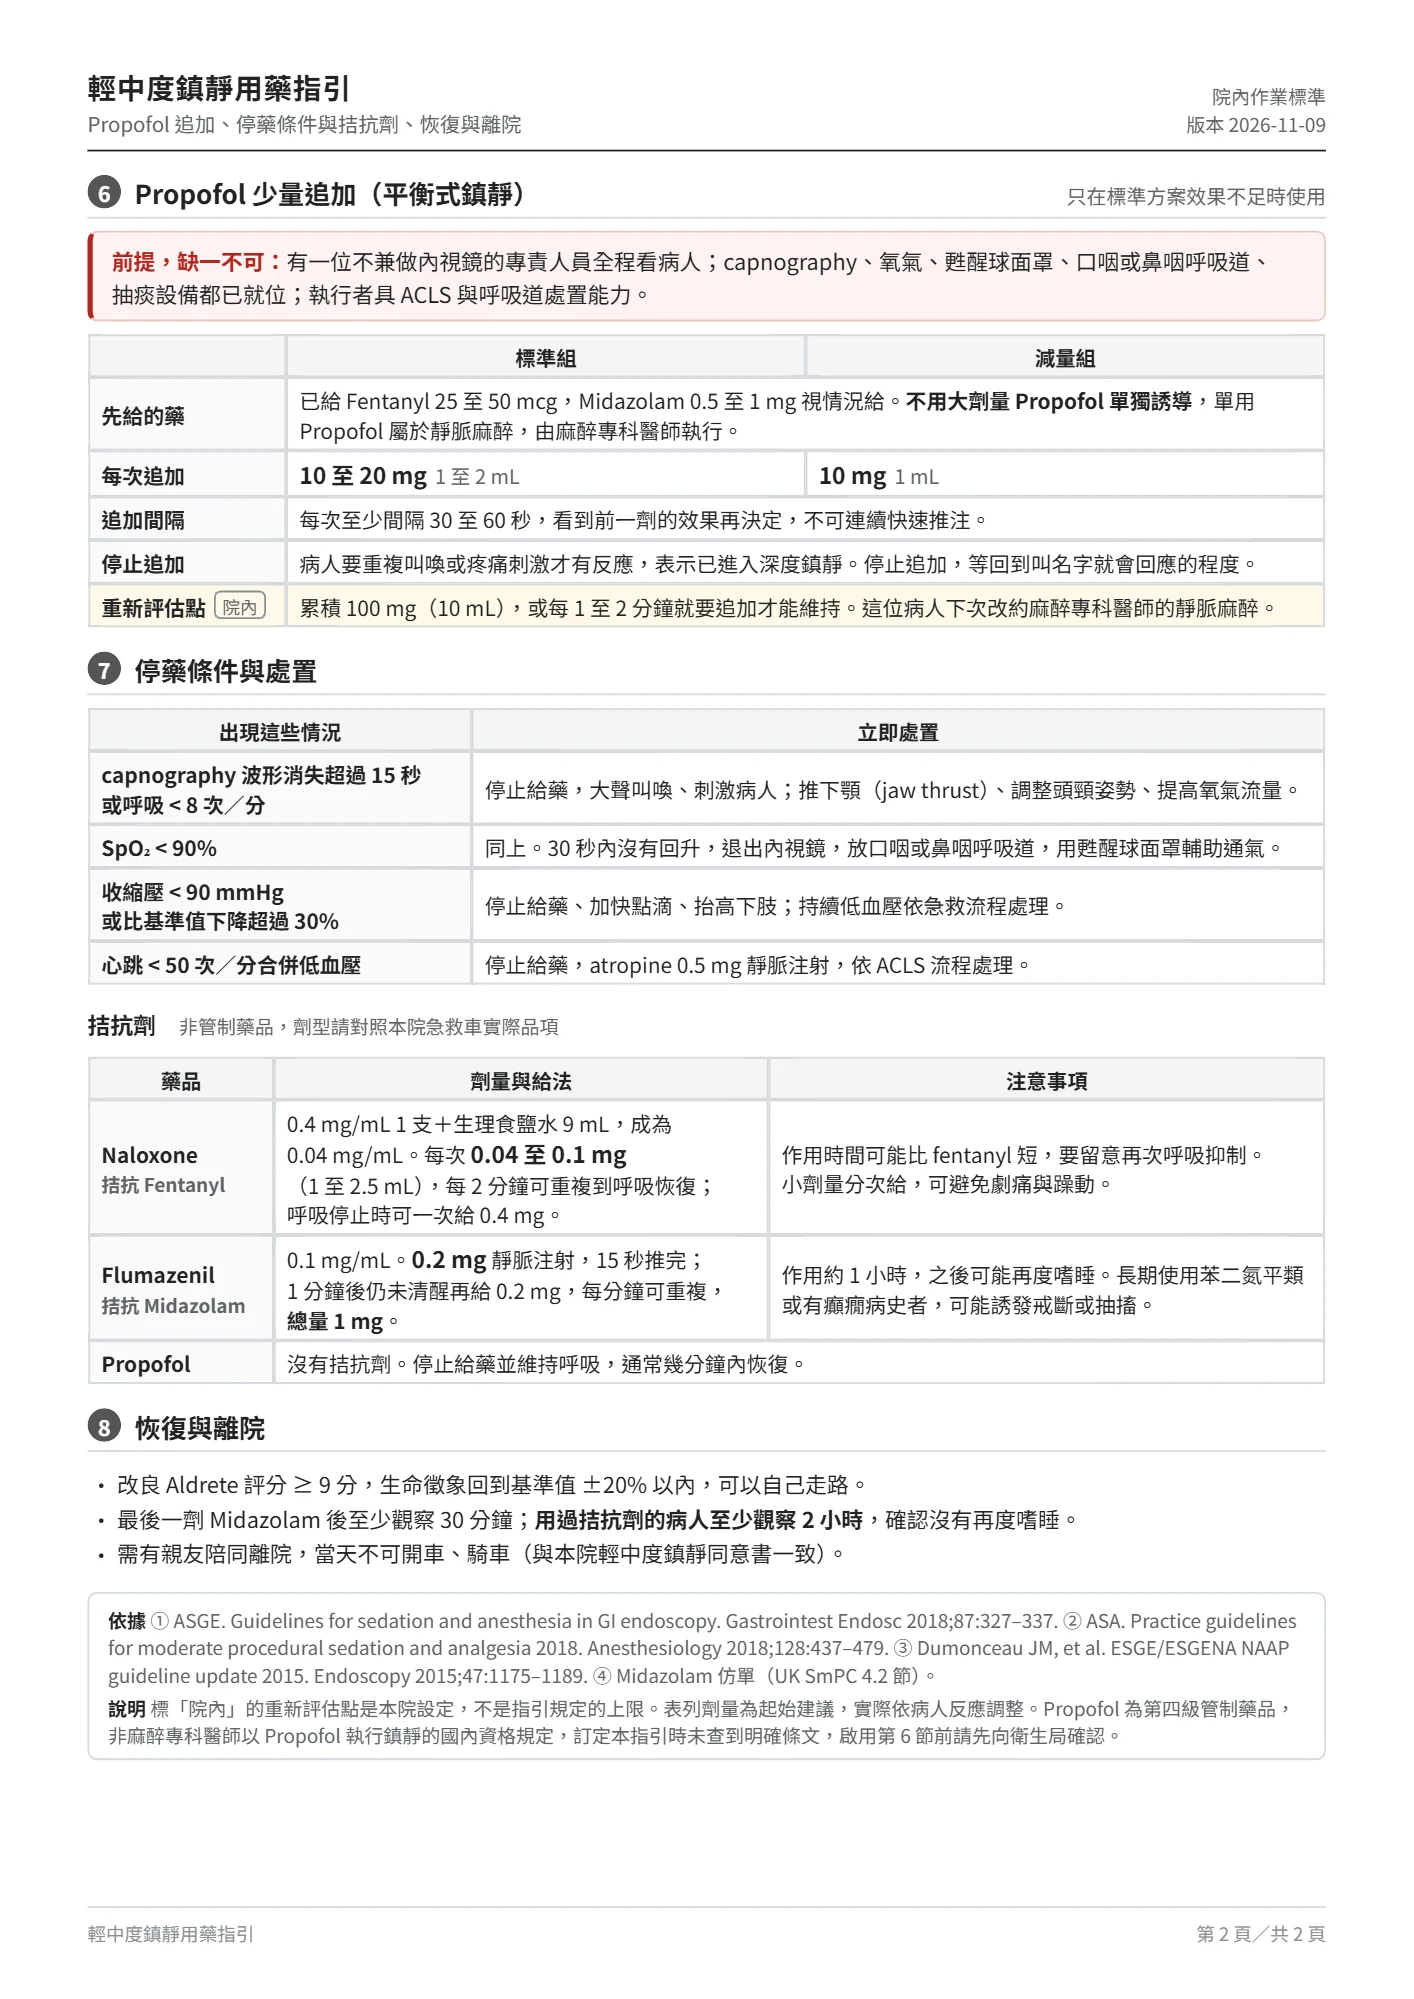
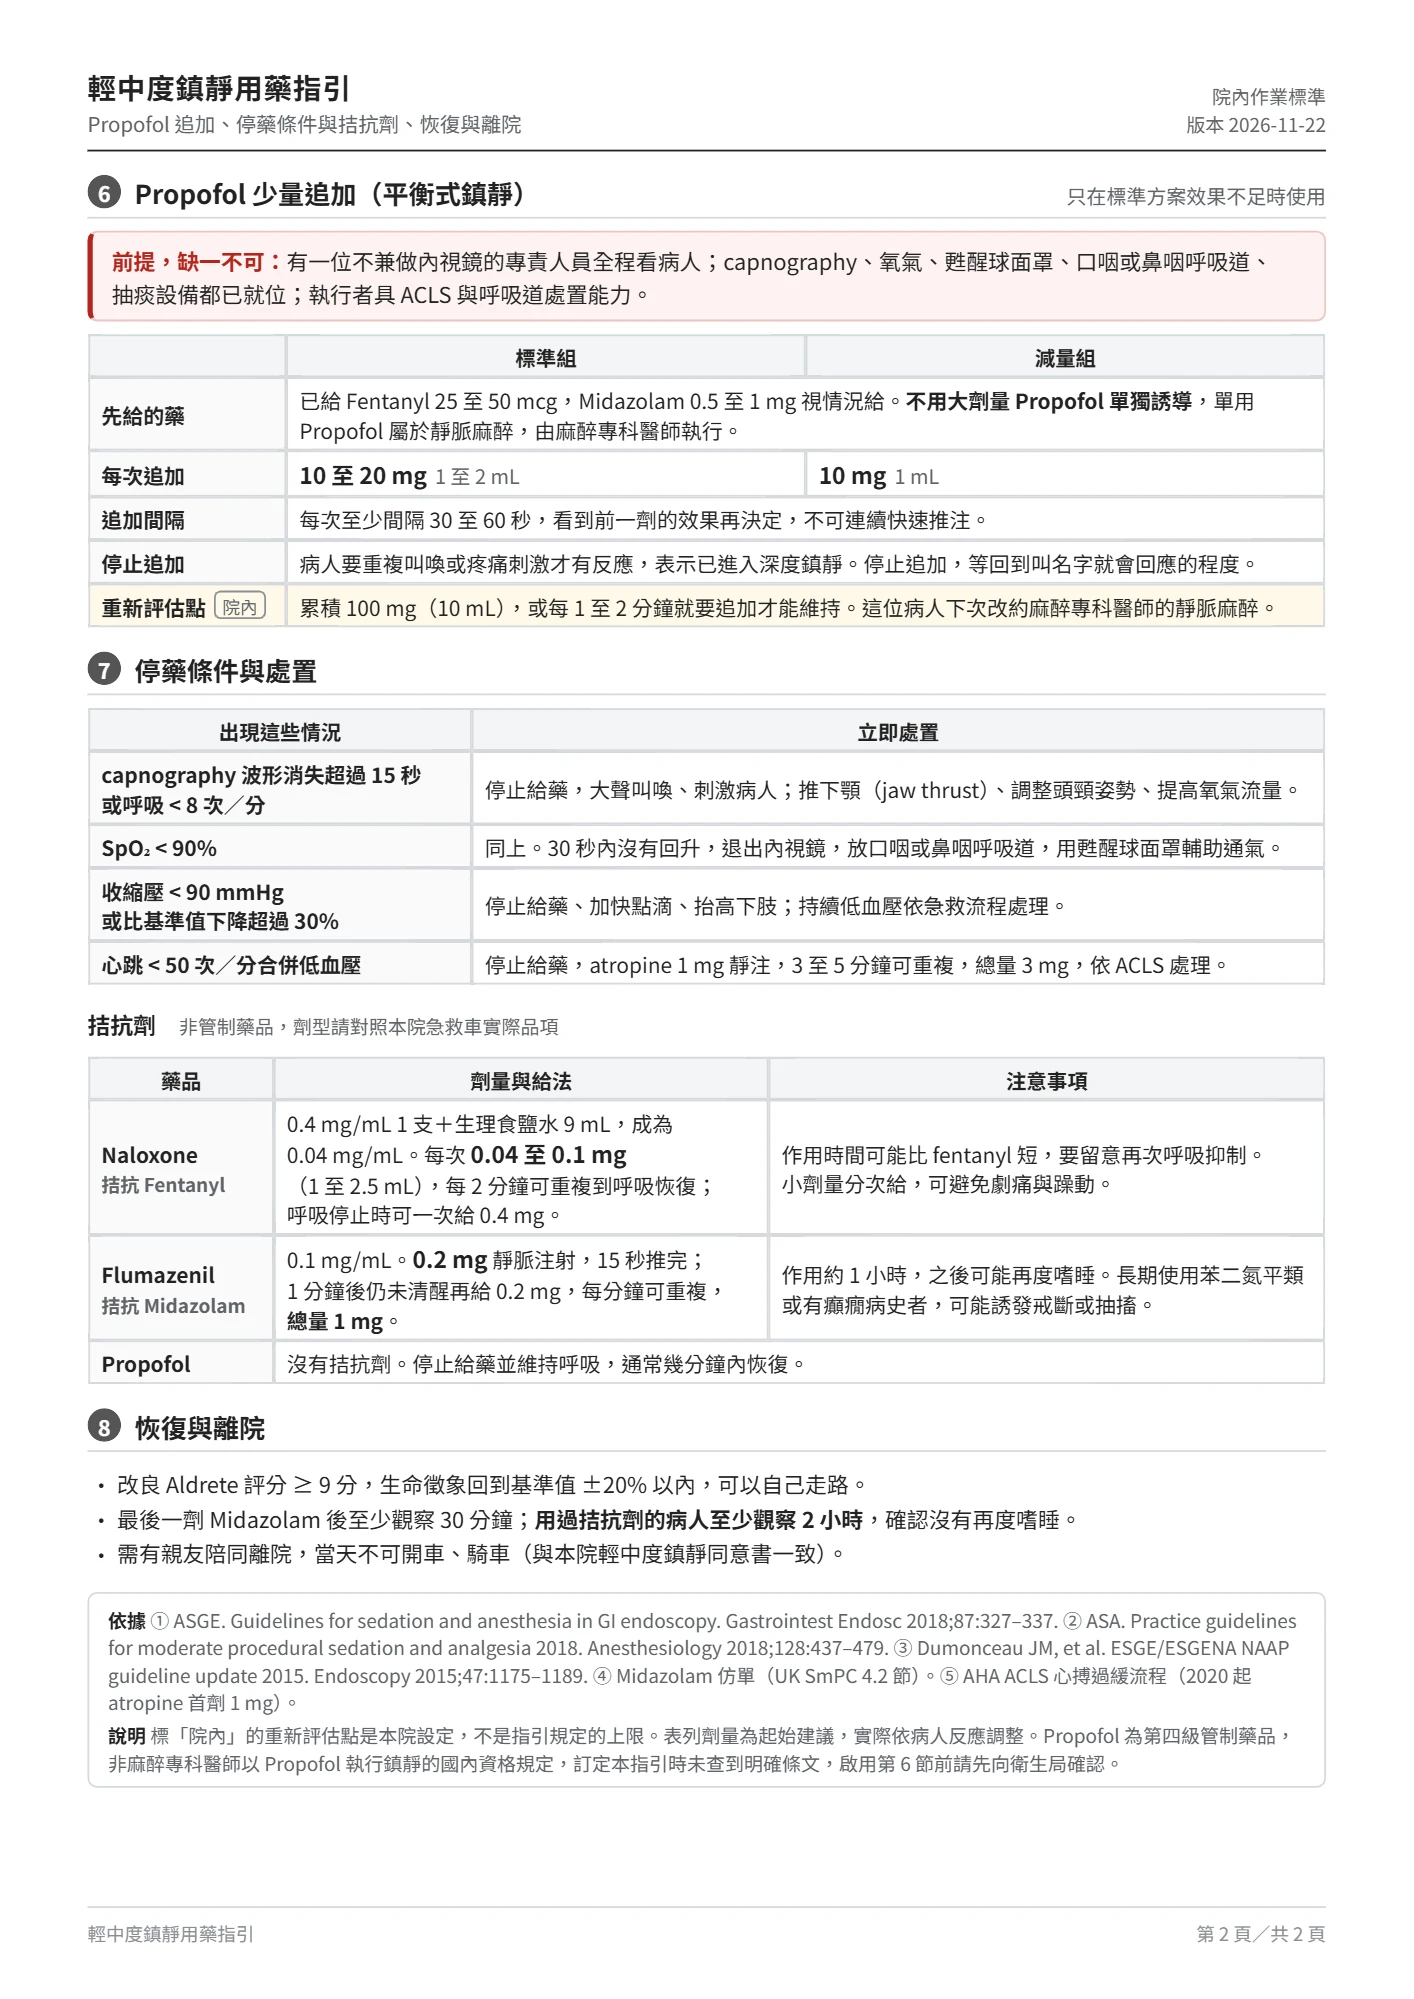
鎮靜用藥指引：心跳過慢改為 atropine 1 mg，依 AHA ACLS 2020 起的建議

diff --git a/guide-src/sedation-guide.html b/guide-src/sedation-guide.html
@@ -81,7 +81,7 @@ ul.dots{padding-left:4.4mm;} ul.dots li{margin:.3mm 0;}
       <h1>輕中度鎮靜用藥指引</h1>
       <div class="sub">適用胃鏡、大腸鏡與內視鏡治療｜目標：叫名字或輕拍會回應，自主呼吸維持</div>
     </div>
-    <div class="meta">院內作業標準<br>版本 2026-11-09</div>
+    <div class="meta">院內作業標準<br>版本 2026-11-22</div>
   </header>
 
   <h2><i>1</i>本院藥品劑型與建議配製<small>依管制藥品使用紀錄單</small></h2>
@@ -191,7 +191,7 @@ ul.dots{padding-left:4.4mm;} ul.dots li{margin:.3mm 0;}
       <h1>輕中度鎮靜用藥指引</h1>
       <div class="sub">Propofol 追加、停藥條件與拮抗劑、恢復與離院</div>
     </div>
-    <div class="meta">院內作業標準<br>版本 2026-11-09</div>
+    <div class="meta">院內作業標準<br>版本 2026-11-22</div>
   </header>
 
   <h2><i>6</i>Propofol 少量追加（平衡式鎮靜）<small>只在標準方案效果不足時使用</small></h2>
@@ -222,7 +222,7 @@ ul.dots{padding-left:4.4mm;} ul.dots li{margin:.3mm 0;}
       <tr><th>收縮壓 &lt; 90 mmHg<br>或比基準值下降超過 30%</th>
         <td>停止給藥、加快點滴、抬高下肢；持續低血壓依急救流程處理。</td></tr>
       <tr><th>心跳 &lt; 50 次／分合併低血壓</th>
-        <td>停止給藥，atropine 0.5 mg 靜脈注射，依 ACLS 流程處理。</td></tr>
+        <td>停止給藥，atropine 1 mg 靜注，3 至 5 分鐘可重複，總量 3 mg，依 ACLS 處理。</td></tr>
     </tbody>
   </table>
 
@@ -252,7 +252,7 @@ ul.dots{padding-left:4.4mm;} ul.dots li{margin:.3mm 0;}
       ① ASGE. Guidelines for sedation and anesthesia in GI endoscopy. Gastrointest Endosc 2018;87:327–337.
       ② ASA. Practice guidelines for moderate procedural sedation and analgesia 2018. Anesthesiology 2018;128:437–479.
       ③ Dumonceau JM, et al. ESGE/ESGENA NAAP guideline update 2015. Endoscopy 2015;47:1175–1189.
-      ④ Midazolam 仿單（UK SmPC 4.2 節）。</p>
+      ④ Midazolam 仿單（UK SmPC 4.2 節）。⑤ AHA ACLS 心搏過緩流程（2020 起 atropine 首劑 1 mg）。</p>
     <p class="note" style="margin-top:.8mm"><span class="k" style="color:var(--ink)">說明</span>
       標「院內」的重新評估點是本院設定，不是指引規定的上限。表列劑量為起始建議，實際依病人反應調整。Propofol 為第四級管制藥品，非麻醉專科醫師以 Propofol 執行鎮靜的國內資格規定，訂定本指引時未查到明確條文，啟用第 6 節前請先向衛生局確認。</p>
   </div>

diff --git a/revision.js b/revision.js
@@ -14,5 +14,6 @@ const REVISION = {
 const REVISION_NOTE = [
   "降血脂給付依健保 115/12/1 修訂：Livalo 改列表一品項，Zovastin、Livazebe HD 不必再滿 3 個月",
   "PCSK9 加入 inclisiran 的給付條件與用法",
-  "A5 衛教右上改寫簡短標題或疾病分類，不再標編號（減重維持編號）"
+  "A5 衛教右上改寫簡短標題或疾病分類，不再標編號（減重維持編號）",
+  "鎮靜用藥指引：心跳過慢改為 atropine 1 mg（AHA ACLS 2020 起）"
 ];

diff --git a/sw.js b/sw.js
@@ -9,7 +9,7 @@
    工作台開啟後會把所有衛教與表單圖片預先存下，斷網時也能顯示與列印。
    網路很慢（伺服器 3 秒內沒回應，圖片 6 秒）時先用快取開啟，背景照樣把新版存下，下次開啟就是新版；
    以前會一直等到連線逾時，網路卡住時整個工作台白畫面。 */
-const CACHE = 'tools-v104';
+const CACHE = 'tools-v106';
 const CORE = [
   './', 'index.html',
   'mount.js', 'revision.js',
